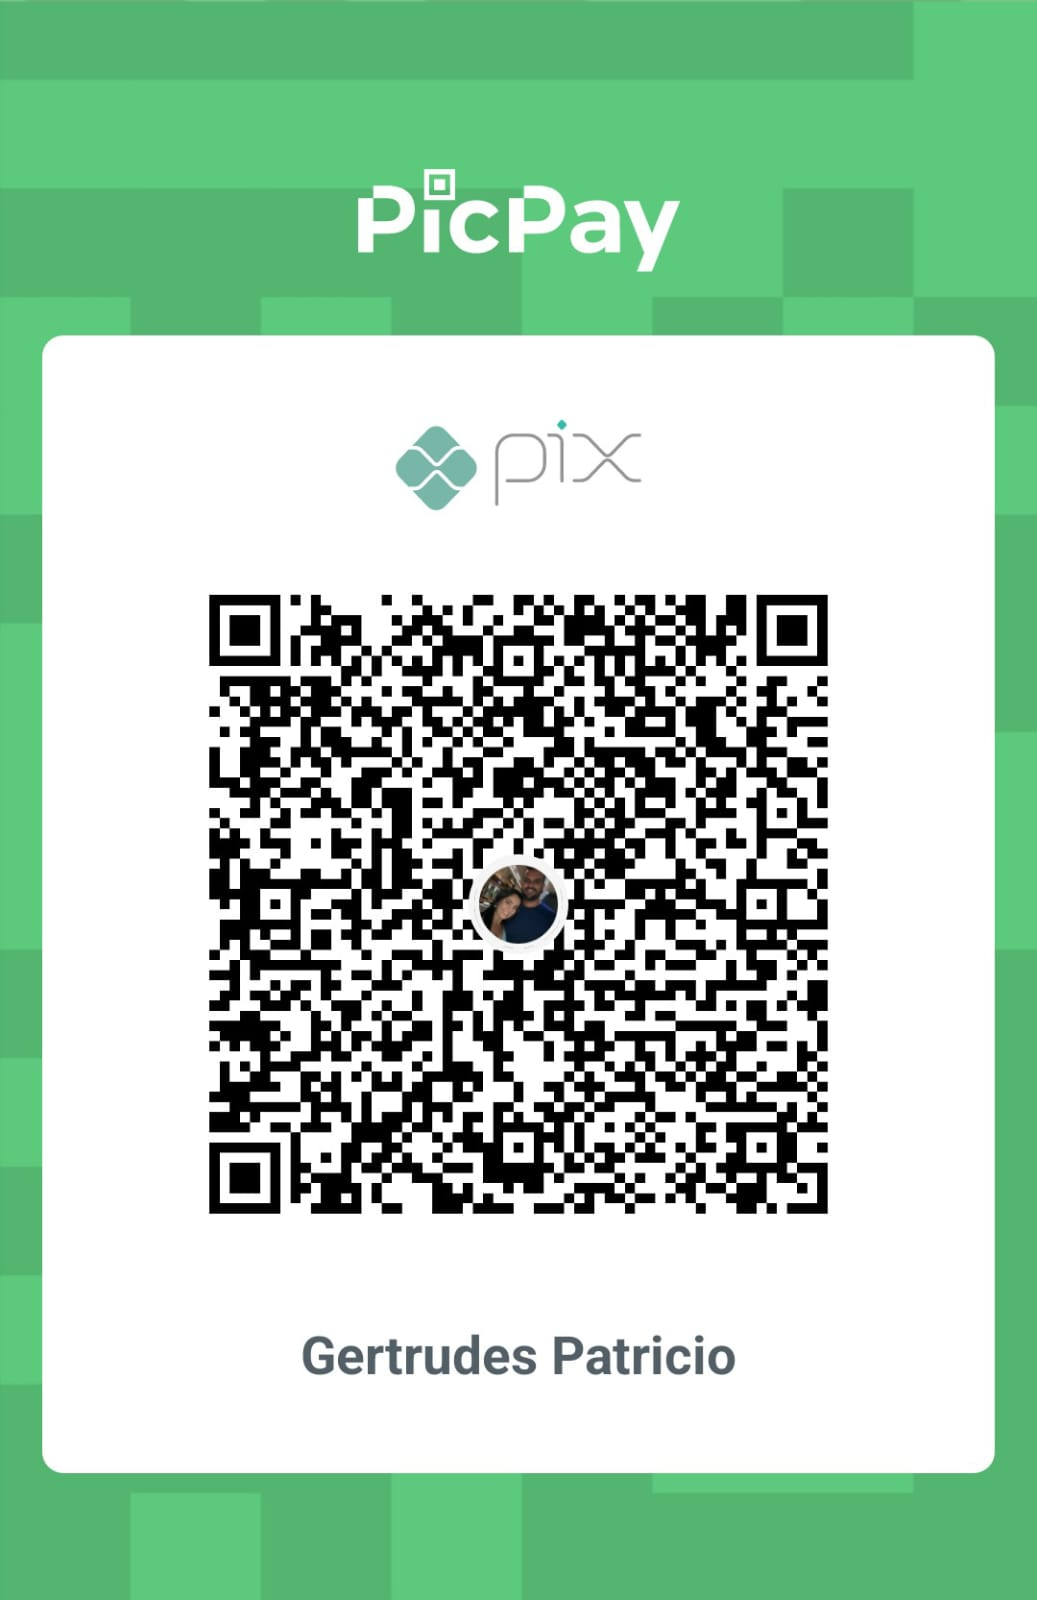
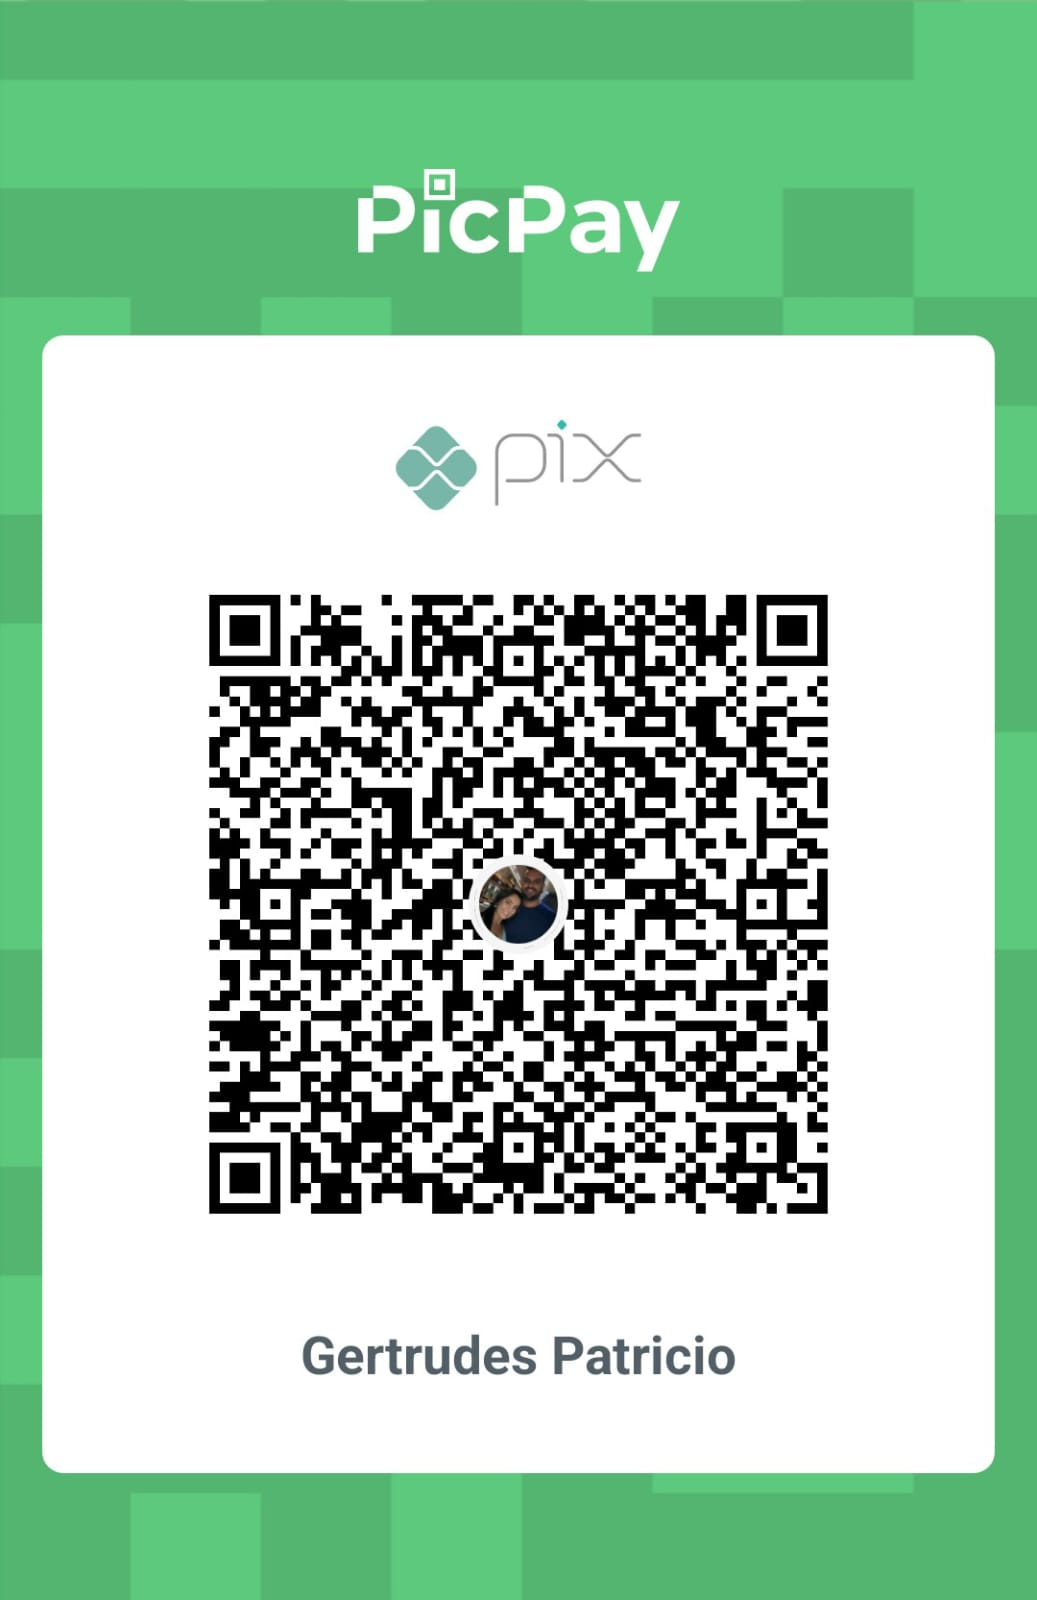
uu

diff --git a/src/components/GiftList.jsx b/src/components/GiftList.jsx
@@ -27,14 +27,14 @@ const gifts = [
     image: './images/presente04N.jpg',
     description: 'Cesta de Café da Manhã do Dia Seguinte',
     price: 'R$ 165,00',
-    qrcode: './images/qrcode/qrcode01.jpeg',
+    qrcode: './images/qrcode/qrcode40.jpeg',
     copiaecola: '00020126580014br.gov.bcb.pix0136fc1d14fd-705d-4ac8-8315-e4e87f232c915204000053039865406165.005802BR5924Gertrudes Souza Patricio6009Sao Paulo62070503***630453CA',
   },
   {
     image: './images/presente05.jpg',
     description: 'Aluguel de um bebê para treinamento',
     price: 'R$ 310,00',
-    qrcode: './images/qrcode/qrcode13.jpeg',
+    qrcode: './images/qrcode/qrcode60.jpeg',
     copiaecola: '00020126580014br.gov.bcb.pix0136fc1d14fd-705d-4ac8-8315-e4e87f232c915204000053039865406310.005802BR5924Gertrudes Souza Patricio6009Sao Paulo62070503***63042B1E',
   },
   {
@@ -62,7 +62,7 @@ const gifts = [
     image: './images/presente09.jpg',
     description: 'Conjunto de controle remotos para não ter briga',
     price: 'R$ 185,00',
-    qrcode: './images/qrcode/qrcode03.jpeg',
+    qrcode: './images/qrcode/qrcode50.jpeg',
     copiaecola: '00020126580014br.gov.bcb.pix0136fc1d14fd-705d-4ac8-8315-e4e87f232c915204000053039865406185.005802BR5924Gertrudes Souza Patricio6009Sao Paulo62070503***6304943A',
   },
   {
@@ -97,7 +97,7 @@ const gifts = [
     image: './images/presenteParaguai.jpg',
     description: 'Ajuda para comprinhas no Paraguai',
     price: 'R$ 600,00',
-    qrcode: './images/qrcode/qrcode20.jpeg',
+    qrcode: './images/qrcode/qrcode30.jpeg',
     copiaecola: '00020126580014br.gov.bcb.pix0136fc1d14fd-705d-4ac8-8315-e4e87f232c915204000053039865406600.005802BR5924Gertrudes Souza Patricio6009Sao Paulo62070503***6304EC7D',
   },
   {
